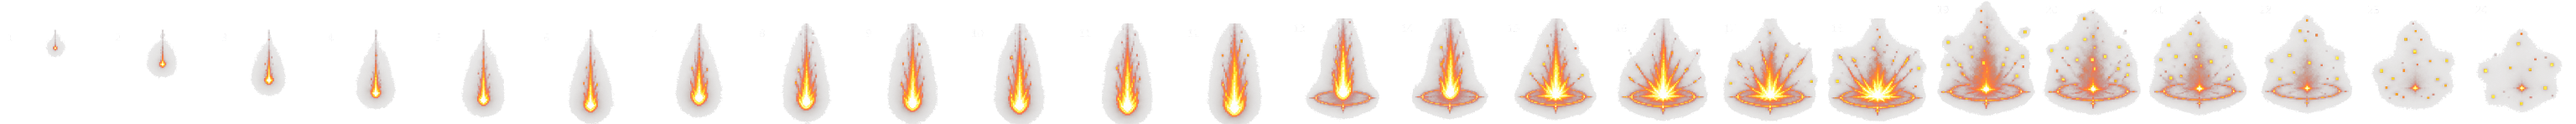
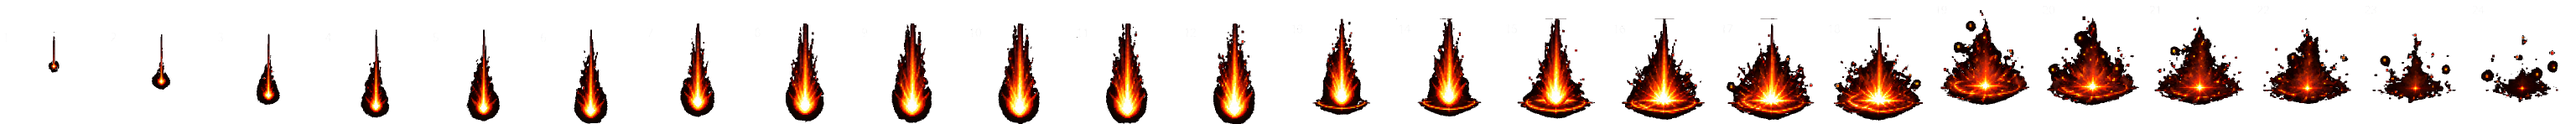
Fire Bolt: mistura aditiva, folha nova, e um bolt por vez
Tres queixas do dono num teste so: a animacao muito escura, os bolts empilhados
demais para se ver, e o impacto sem forca. As tres tem causas diferentes.

ESCURO: a mistura era normal, entao a arte tapava o mundo e trazia junto o
proprio preto. Virou ADITIVA - a cor do efeito e SOMADA ao que esta atras, que e
como fogo se comporta: ele ilumina, nao recorta um buraco.

Com isso o recorte passou a sair com alfa CHEIO. A primeira versao graduava o
alfa pelo brilho (brilho x 1,7), e na soma o alfa e um volume: baixa-lo nos tons
medios apagava justamente o corpo da chama. O preto continua somando zero
sozinho, sem precisar de alfa nenhum para sumir. Isso tambem responde o
"impacto mais intenso" - o clarao agora soma em cima do mundo.

UM POR VEZ: INTERVALO_BOLT_MS foi de 140 para 800. A 140 o intervalo era uma
fracao da queda e as dez bolas do nivel 10 ficavam no ar ao mesmo tempo; a 800
cada uma chega perto do chao antes de a seguinte nascer.

E a queda VOLTOU de 3600 para 1000. Ela tinha subido de 620 ate 3600 em cinco
testes, e o pedido por tras de todos era o mesmo: dar para ver a bola. Com dez
caindo juntas, alongar a queda era o unico jeito - e nao bastava, porque elas se
sobrepunham. Caindo uma por vez, a bola e vista sem precisar durar quatro
segundos.

CONSEQUENCIA A OLHAR JOGANDO: o Fire Bolt de nivel 10 passa a levar 9 x 800 +
1000 = 8,2 s do lancamento ao ultimo impacto, e a recarga acompanha. E o que
[…]

Changed region(s): [[0.0, 0.0541, 1.0, 1.0], [0.0, 0.3243, 0.0312, 0.4324]]

diff --git a/shared/src/constants.ts b/shared/src/constants.ts
@@ -130,8 +130,19 @@ export function directionFromDelta(
  *
  * É o mesmo tipo de contrato do `GROUND_Y`/`feetY`: um valor, dois arquivos, e
  * mudar um sem o outro quebra em silêncio.
+ *
+ * 🔴 **De 140 para 800 em 09/09: os bolts passam a cair UM POR UM.** Pedido do
+ * dono depois de ver dez bolas no ar ao mesmo tempo — *"quase não está dando
+ * para ver a animação direito"*. A 140 o intervalo era uma fração da queda e a
+ * chuva virava borrão; a 800 cada bola chega perto do chão antes de a seguinte
+ * nascer.
+ *
+ * ⚠ **Isto é o que mais mexe no ritmo da magia.** O Fire Bolt de nível 10
+ * passa a levar 9 × 800 + queda para terminar, e a recarga acompanha (ver
+ * `marcaConjuracao`). Se um dia parecer lento demais, este é o número — não a
+ * duração da queda, que é o que faz cada bola ser vista.
  */
-export const INTERVALO_BOLT_MS = 140;
+export const INTERVALO_BOLT_MS = 800;
 
 /**
  * 🔴 **Quanto UMA bola leva do céu ao chão.**
@@ -144,13 +155,17 @@ export const INTERVALO_BOLT_MS = 140;
  * ⚠ Mesmo contrato do intervalo acima: um valor, dois arquivos. Baixar aqui
  * sem baixar a animação libera a magia antes de a última bola cair na tela.
  *
- * ⚠ 3600 não é gosto — o dono pediu a queda mais lenta em CINCO testes
- * seguidos (620 → 1000 → 1600 → 2400 → 3600). Sendo bem maior que o intervalo
- * de 140, as dez bolas do nível 10 ficam quase todas no ar ao mesmo tempo, que
- * é o efeito de chuva que a arte quer.
+ * 🔴 **Voltou a 1000 quando os bolts passaram a cair um por um.** Ela subiu de
+ * 620 até 3600 ao longo de cinco testes, e o pedido por trás de todos era o
+ * mesmo: *dar para ver a bola*. Com dez caindo ao mesmo tempo, alongar a queda
+ * era o único jeito de conseguir isso — e não bastava, porque as dez se
+ * sobrepunham.
+ *
+ * ✅ Com `INTERVALO_BOLT_MS` em 800 cada bola cai sozinha, e aí ela é vista sem
+ * precisar durar quatro segundos. Alongar de novo AQUI só faria as bolas
+ * voltarem a se sobrepor.
  *
  * ⚠ Na arte de 24 quadros a QUEDA são os catorze primeiros e o estouro os dez
- * últimos — então o tempo de descida é ~58% deste número, não ele inteiro. Foi
- * por isso que 2400 ainda pareceu rápido: a descida durava 1,4 s.
+ * últimos — então o tempo de descida é ~58% deste número.
  */
-export const DUR_QUEDA_MS = 3600;
+export const DUR_QUEDA_MS = 1000;

diff --git a/client/src/main.ts b/client/src/main.ts
@@ -2082,6 +2082,16 @@ async function startGame(playerName: string, charClass: PlayerClass, gender: Gen
   function spawnQueda(wx: number, wy: number, frames: Texture[], atraso: number): void {
     const node = new AnimatedSprite(frames);
     node.loop = false;
+    /*
+     * 🔴 **MISTURA ADITIVA** (09/09): a cor do efeito é SOMADA à do mundo, em
+     * vez de tapá-lo. É como fogo se comporta — ele ilumina o que está atrás,
+     * não recorta um buraco. Sem isto o dono viu *"a animação muito escura"*:
+     * desenhada por cima, a arte trazia junto o próprio preto.
+     *
+     * ⚠ É por causa disto que o recorte sai com alfa CHEIO (ver
+     * `tools/contato2fx.mjs`). Na soma, o preto já não acrescenta nada.
+     */
+    node.blendMode = 'add';
     node.scale.set(ESCALA_QUEDA);
     node.anchor.set(0.5, 1);
     node.x = wx;
